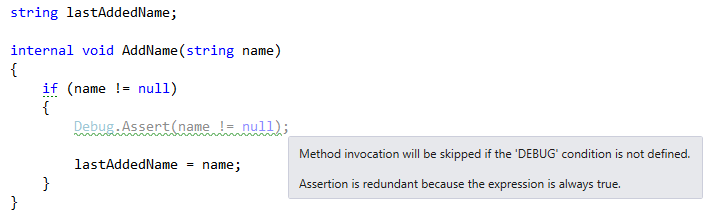
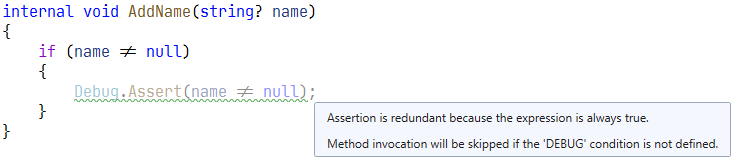
- improve highlighting of redundant null-forgiving operator - update readme

diff --git a/Sources/ReCommendedExtension/Analyzers/ControlFlow/RedundantNullForgivingOperatorSuggestion.cs b/Sources/ReCommendedExtension/Analyzers/ControlFlow/RedundantNullForgivingOperatorSuggestion.cs
@@ -1,6 +1,7 @@
 using JetBrains.Annotations;
 using JetBrains.DocumentModel;
 using JetBrains.ReSharper.Feature.Services.Daemon;
+using JetBrains.ReSharper.Feature.Services.Daemon.Attributes;
 using JetBrains.ReSharper.Psi.CSharp;
 using ReCommendedExtension.Analyzers.ControlFlow;
 using ZoneMarker = ReCommendedExtension.ZoneMarker;
@@ -16,7 +17,11 @@ using ZoneMarker = ReCommendedExtension.ZoneMarker;
 
 namespace ReCommendedExtension.Analyzers.ControlFlow
 {
-    [ConfigurableSeverityHighlighting(SeverityId, CSharpLanguage.Name)]
+    [ConfigurableSeverityHighlighting(
+        SeverityId,
+        CSharpLanguage.Name,
+        AttributeId = AnalysisHighlightingAttributeIds.DEADCODE,
+        OverlapResolve = OverlapResolveKind.DEADCODE)]
     public sealed class RedundantNullForgivingOperatorSuggestion : RedundantAssertionSuggestion
     {
         internal const string SeverityId = "RedundantNullForgivingOperator";

diff --git a/README.md b/README.md
@@ -22,9 +22,11 @@ Another feature of the extension are new context actions that simply save time f
 
 # Some Screenshots
 
+![](Images/MulitpleConsumption.png)
+
 ![](Images/RedundantAssertion.png)
 
-![](Images/InvalidAnnotation.png)
+![](Images/RedundantNullForgivingOperator.png)
 
 # Installation
 
